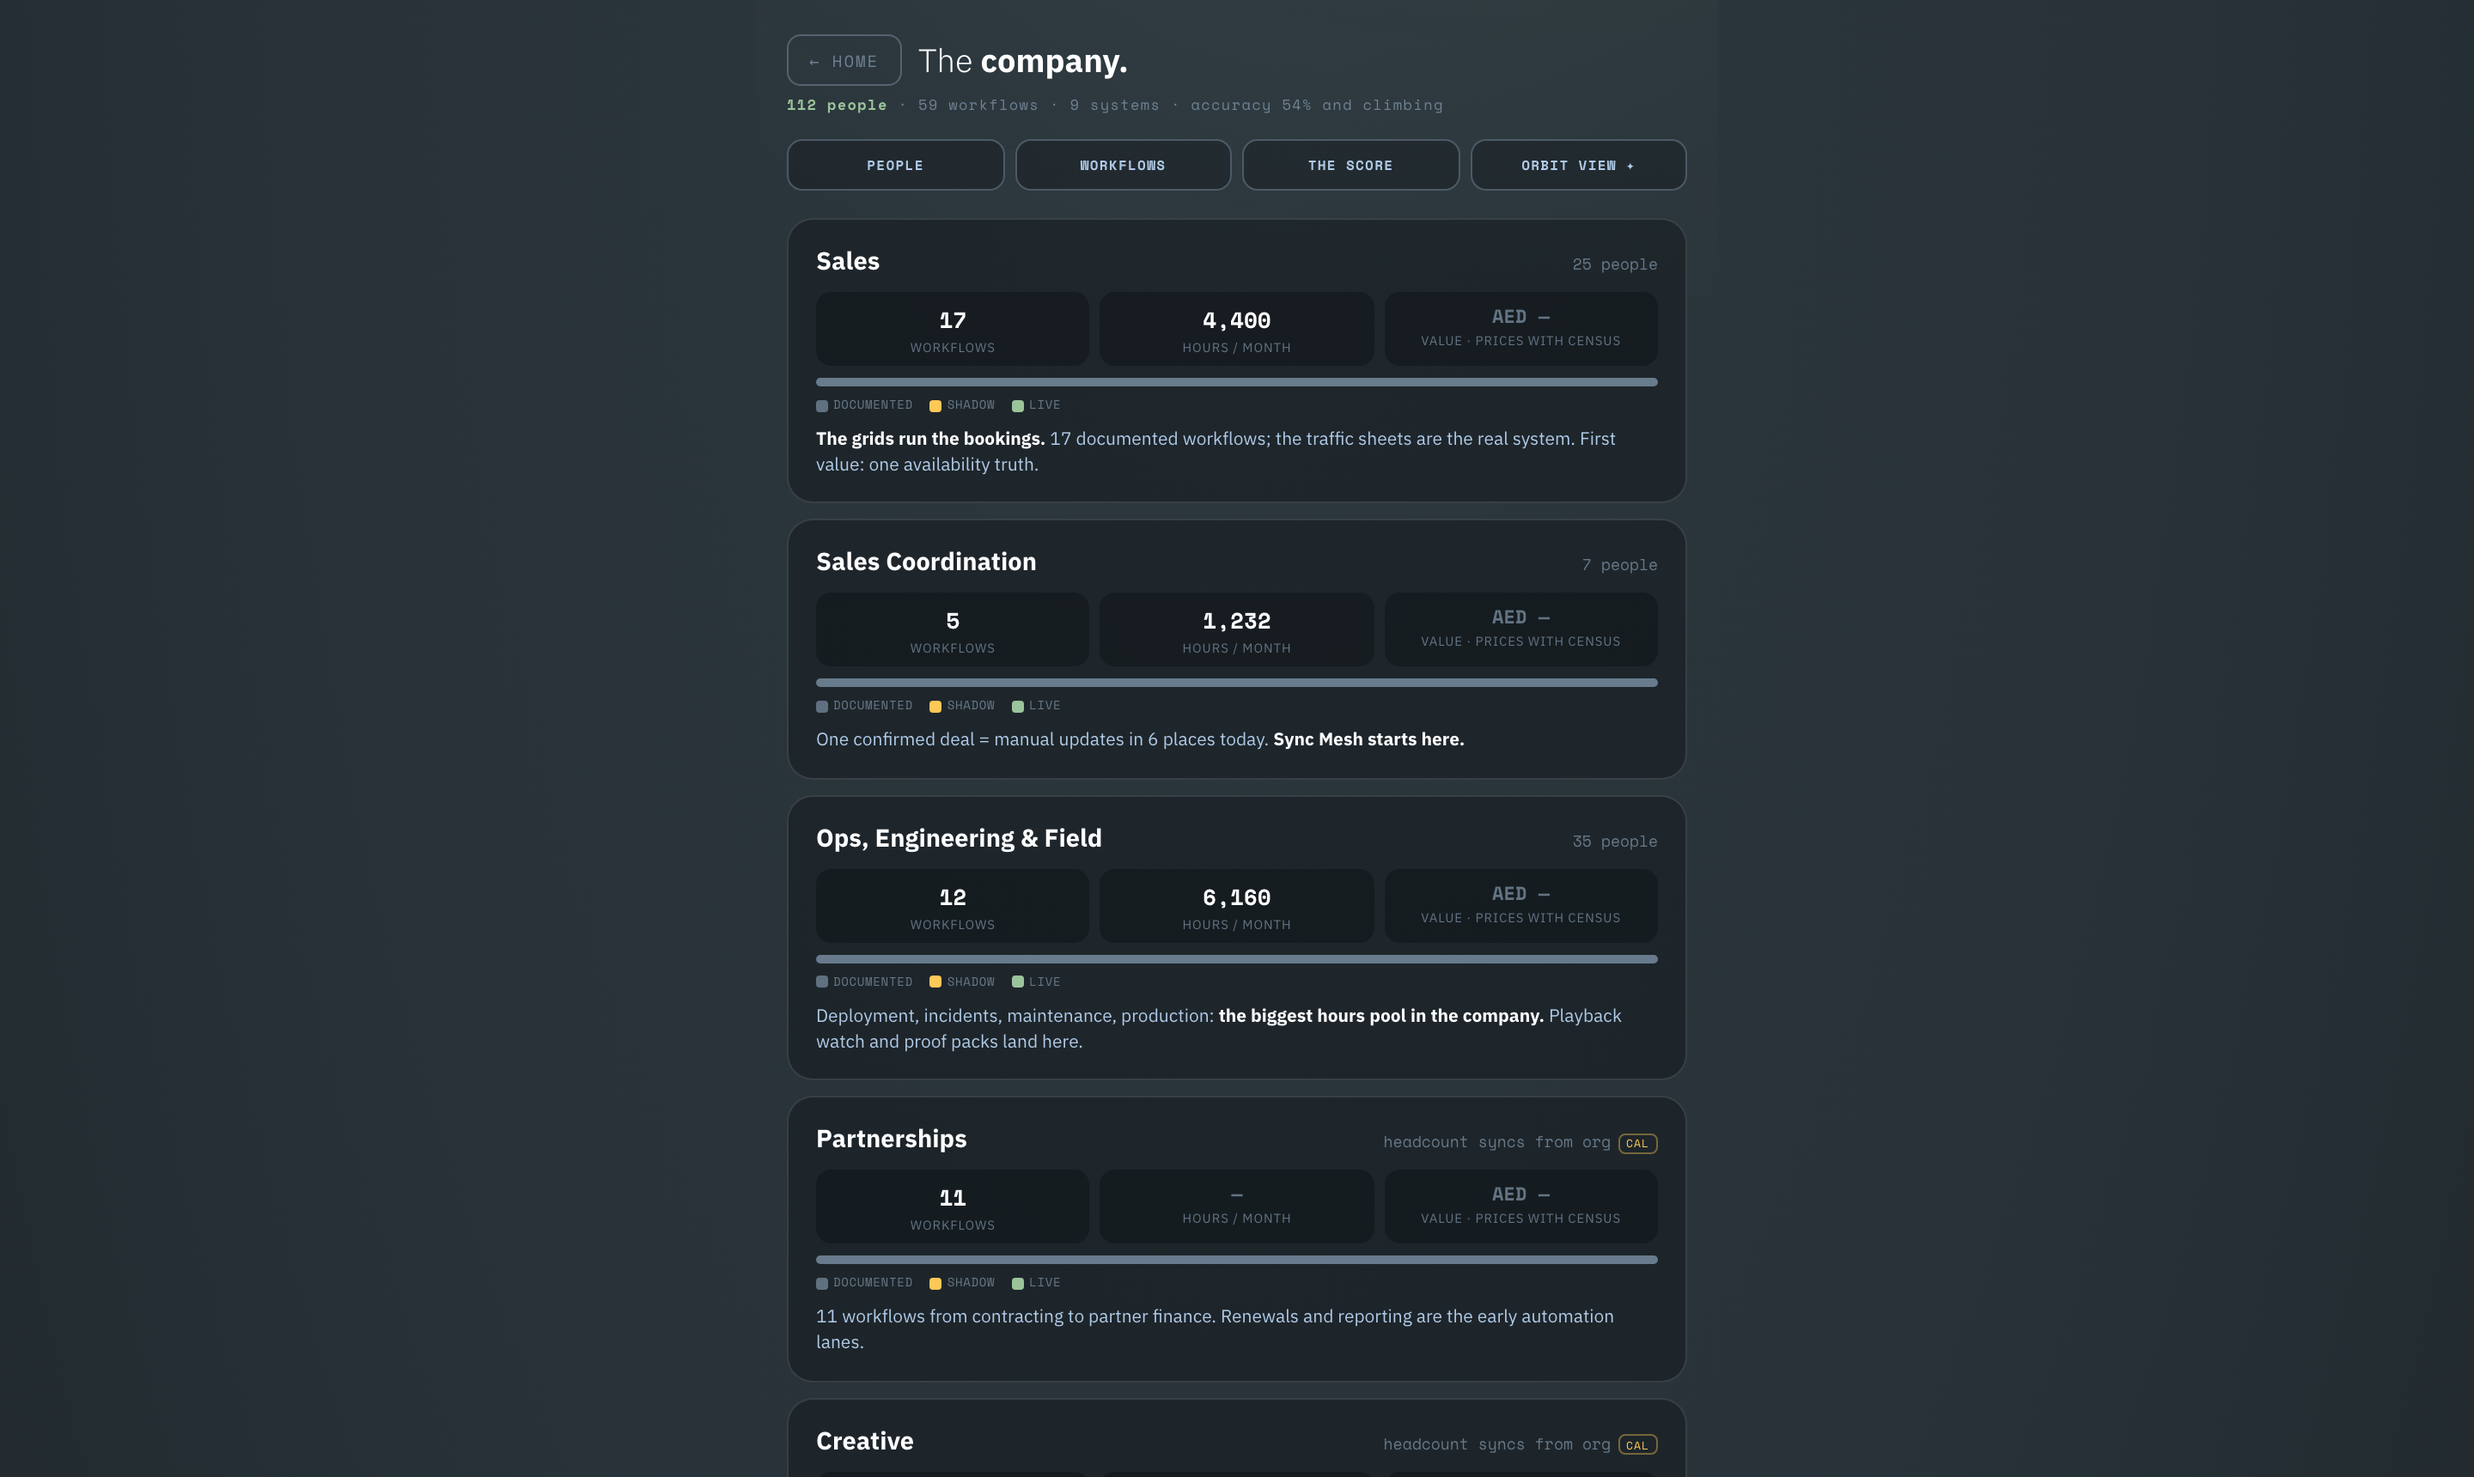
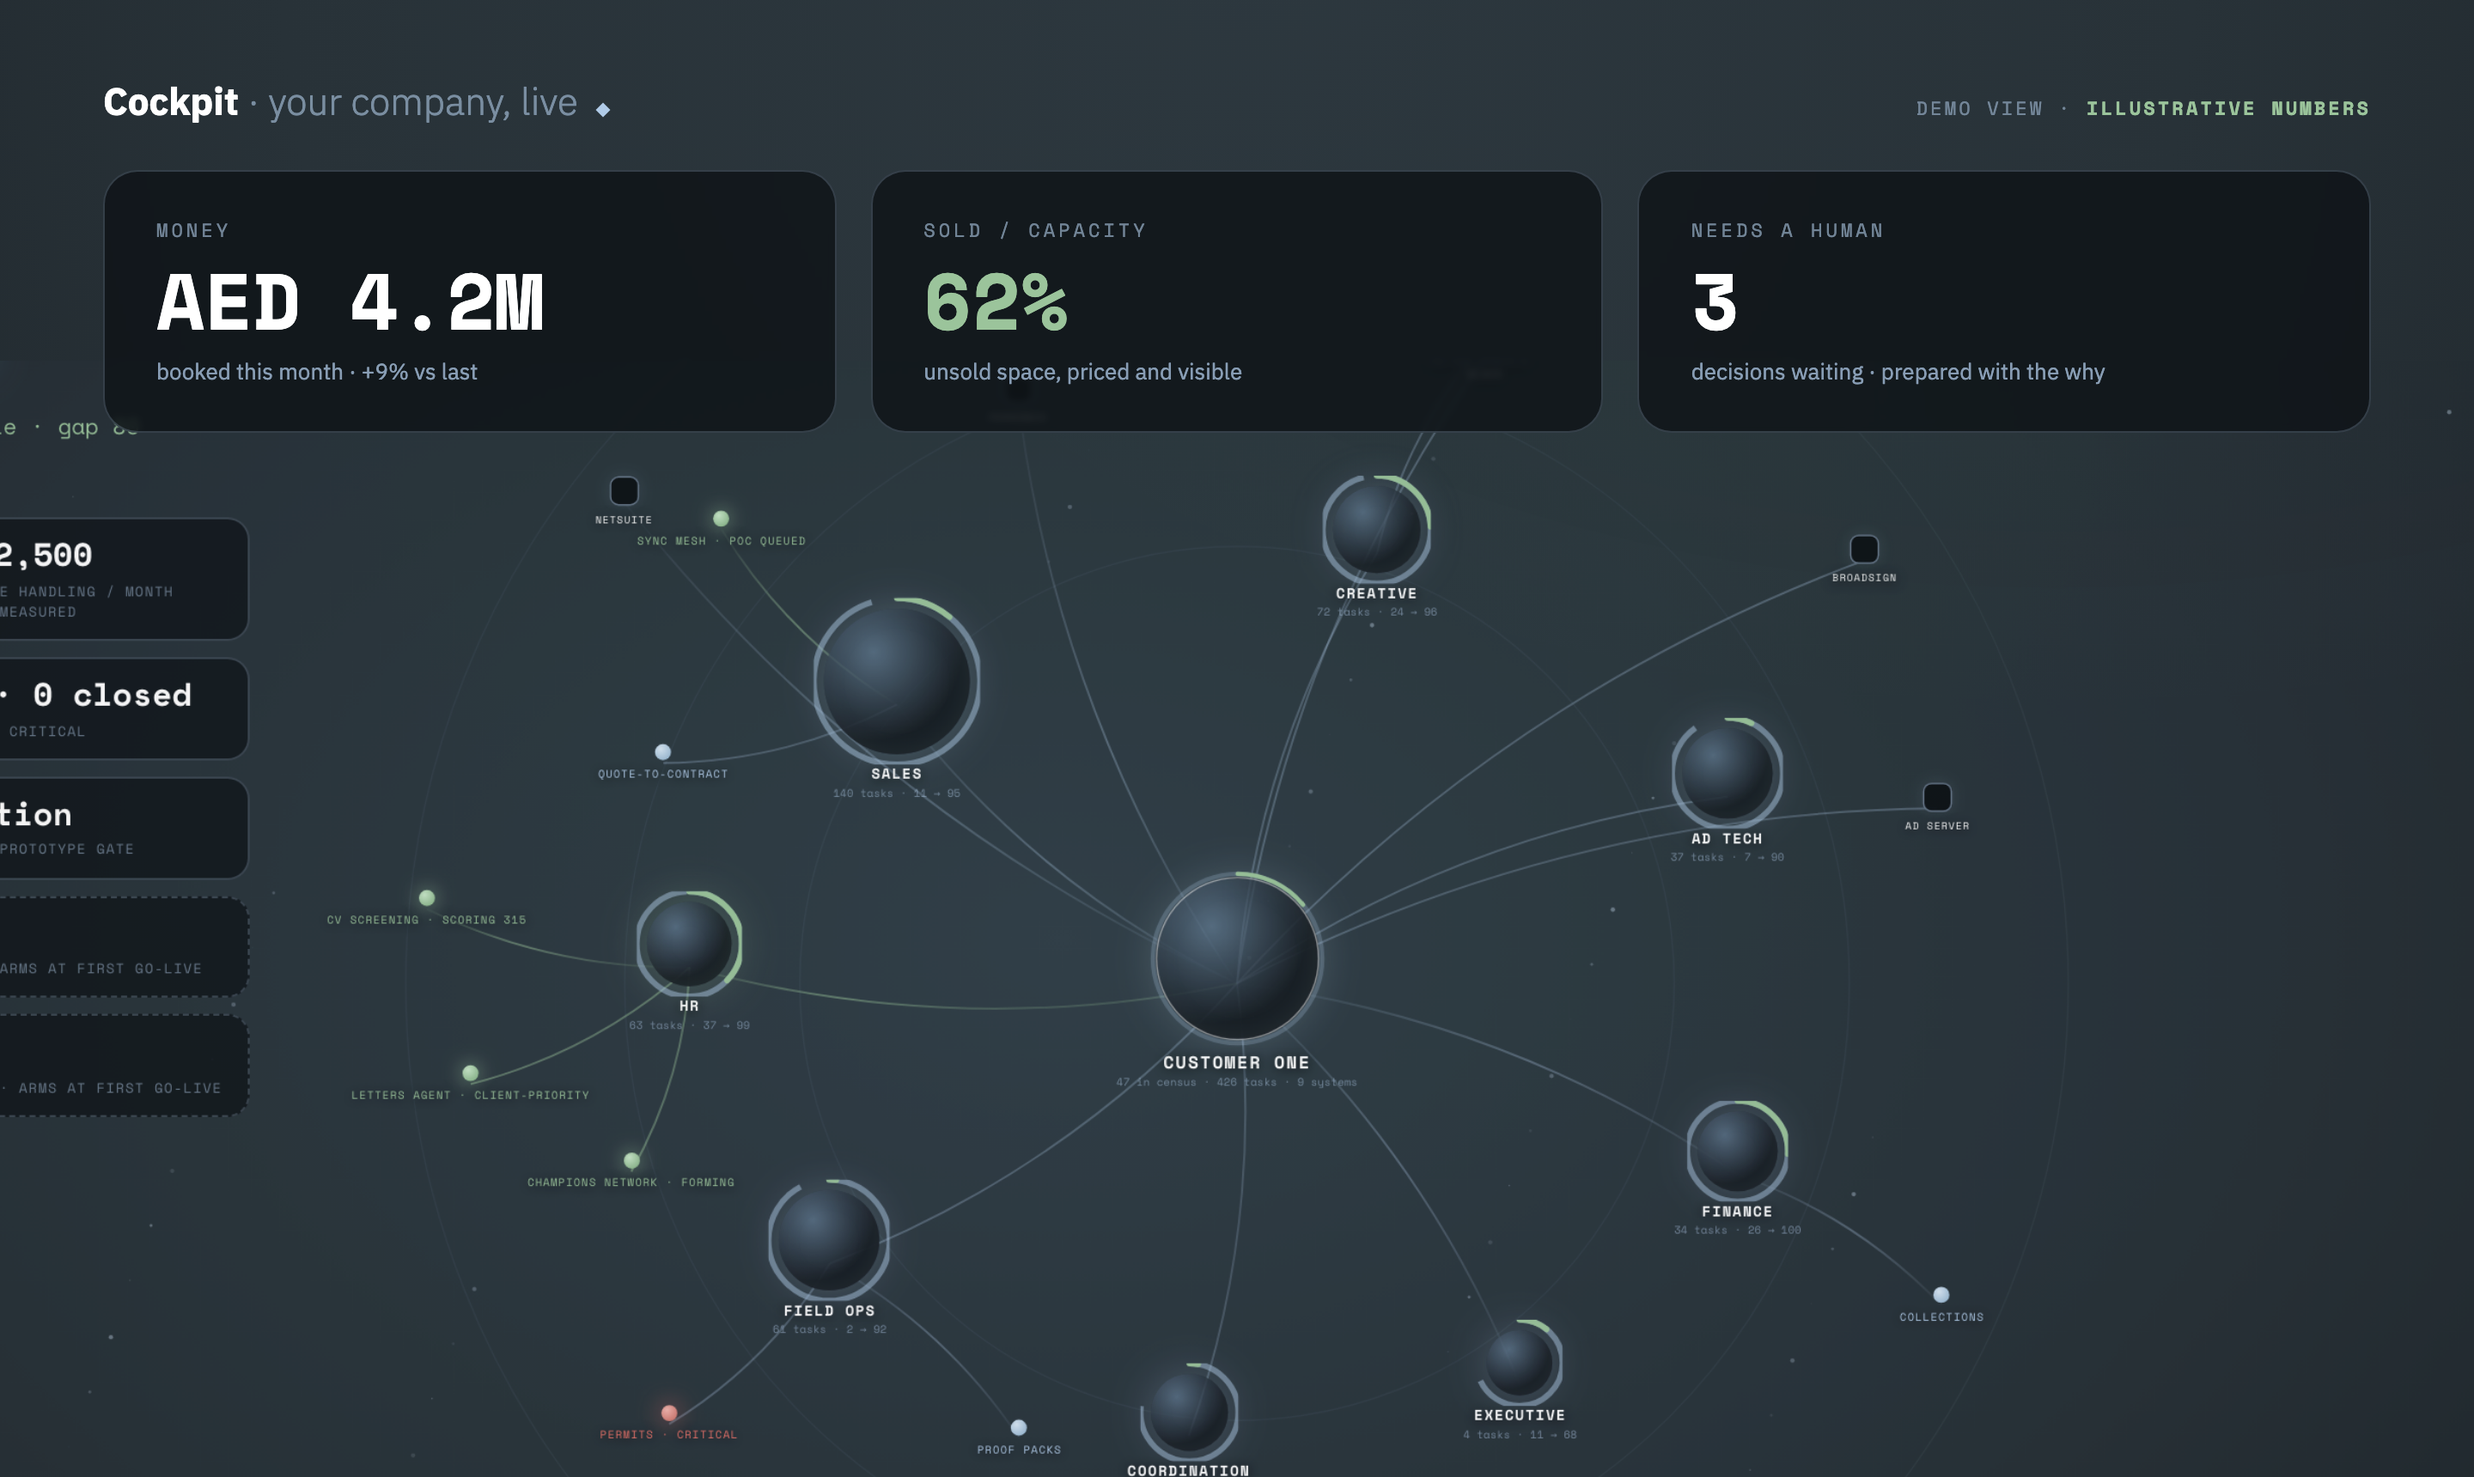
site: composed demo frames (3 clean slides), hero one-liners on desktop

diff --git a/index.html b/index.html
@@ -29,7 +29,7 @@ body{font-family:'IBM Plex Sans',sans-serif;background:var(--petrol);color:var(-
 /* sections */
 section{padding:110px 6vw 90px;border-bottom:1px solid rgba(255,255,255,0.05);position:relative}
 .kick{font-family:'Space Mono',monospace;font-size:11px;letter-spacing:0.22em;text-transform:uppercase;color:var(--text);margin-bottom:18px}
-h1{font-size:clamp(34px,6vw,68px);font-weight:300;color:var(--white);letter-spacing:-0.02em;line-height:1.04;max-width:17ch}
+h1{font-size:clamp(34px,5vw,60px);font-weight:300;color:var(--white);letter-spacing:-0.02em;line-height:1.08;max-width:none}
 h1 b{font-weight:600}
 h2{font-size:clamp(26px,3.8vw,44px);font-weight:300;color:var(--white);letter-spacing:-0.02em;line-height:1.1;max-width:22ch}
 h2 b{font-weight:600}
@@ -41,7 +41,7 @@ h2 b{font-weight:600}
 .btn.g:hover{border-color:var(--text);color:var(--white)}
 /* hero */
 #hero{min-height:100vh;display:flex;flex-direction:column;justify-content:center;padding-top:130px}
-#hero .sub{font-size:clamp(17px,2vw,21px);margin-top:26px;max-width:56ch;line-height:1.5;color:var(--text)}
+#hero .sub{font-size:clamp(17px,1.6vw,20px);margin-top:26px;max-width:78ch;line-height:1.55;color:var(--text)}
 #hero .sub b{color:var(--white)}
 /* layer slabs */
 .stack{display:flex;flex-direction:column;gap:14px;margin-top:38px;max-width:1000px}
@@ -171,12 +171,11 @@ h2 b{font-weight:600}
 .syscard p b{color:var(--white)}
 /* animated cockpit slideshow */
 .macscreen{aspect-ratio:16/9.35}
-.macscreen .slide{position:absolute;inset:16px 16px 12px;border-radius:8px;overflow:hidden;opacity:0;animation:ckcycle 16s infinite}
+.macscreen .slide{position:absolute;inset:16px 16px 12px;border-radius:8px;overflow:hidden;opacity:0;animation:ckcycle 12s infinite}
 .macscreen .slide img{width:100%;height:100%;object-fit:cover;object-position:top}
 .macscreen .slide:nth-child(2){animation-delay:0s}
 .macscreen .slide:nth-child(3){animation-delay:4s}
 .macscreen .slide:nth-child(4){animation-delay:8s}
-.macscreen .slide:nth-child(5){animation-delay:12s}
 @keyframes ckcycle{0%{opacity:0}3%{opacity:1}25%{opacity:1}31%{opacity:0}100%{opacity:0}}
 /* score dial small */
 .dial{width:120px;height:120px;border-radius:50%;background:conic-gradient(#fff 0deg 220deg, rgba(255,255,255,0.09) 220deg 360deg);display:flex;align-items:center;justify-content:center;flex-shrink:0}
@@ -209,7 +208,7 @@ footer a{color:var(--text);text-decoration:none}
 <section id="hero">
   <div class="kick">▸ House of Builders · Dubai — Abu Dhabi</div>
   <h1>We don't advise the future.<br><b>We operate it.</b></h1>
-  <div class="sub">House of Builders makes companies <b>run on AI</b> — then turns what works into products and ventures it co-owns. Built in the Gulf, <b>sovereign by design</b>.</div>
+  <div class="sub">House of Builders makes companies <b>run on AI</b> — then turns what works into products and ventures it co-owns.<br>Built in the Gulf, <b>sovereign by design</b>.</div>
   <div>
     <a class="btn" href="mailto:peter@houseofbuilders.ai?subject=Let's%20talk">Talk to us</a>
     <a class="btn g" href="#how">How we work ↓</a>
@@ -239,13 +238,12 @@ footer a{color:var(--text);text-decoration:none}
   <div class="lead">Three numbers that tell you how it's doing, insights that find you, decisions that arrive ready to approve. Nothing new to learn: the AI works underneath, invisibly. <b>The Cockpit becomes your company's map for AI</b> — every workflow, every agent, every decision, one place.</div>
   <div class="macbook">
     <div class="macscreen" style="position:relative"><img src="img/cockpit-1.png" alt="the HoB cockpit" style="visibility:hidden">
-      <div class="slide"><img src="img/cockpit-1.png" alt="the whole company on one screen"></div>
-      <div class="slide"><img src="img/cockpit-2.png" alt="orbit view — every department a planet"></div>
-      <div class="slide"><img src="img/cockpit-3.png" alt="a workflow, today vs agent-run"></div>
-      <div class="slide"><img src="img/cockpit-4.png" alt="the bot on chat"></div>
+      <div class="slide"><img src="img/cockpit-1.png" alt="three numbers and the living map"></div>
+      <div class="slide"><img src="img/cockpit-2.png" alt="every department, measured"></div>
+      <div class="slide"><img src="img/cockpit-3.png" alt="hours returned and the recruitment agent"></div>
     </div>
     <div class="macbase"></div>
-    <div class="maccap">the cockpit, live rotation: the whole company → orbit view → a workflow, today vs agent-run → the bot on chat · client-one screens, anonymized</div>
+    <div class="maccap">the cockpit · three numbers and the living map → every department, measured → hours returned + the recruitment agent · illustrative demo</div>
   </div>
 </section>
 
